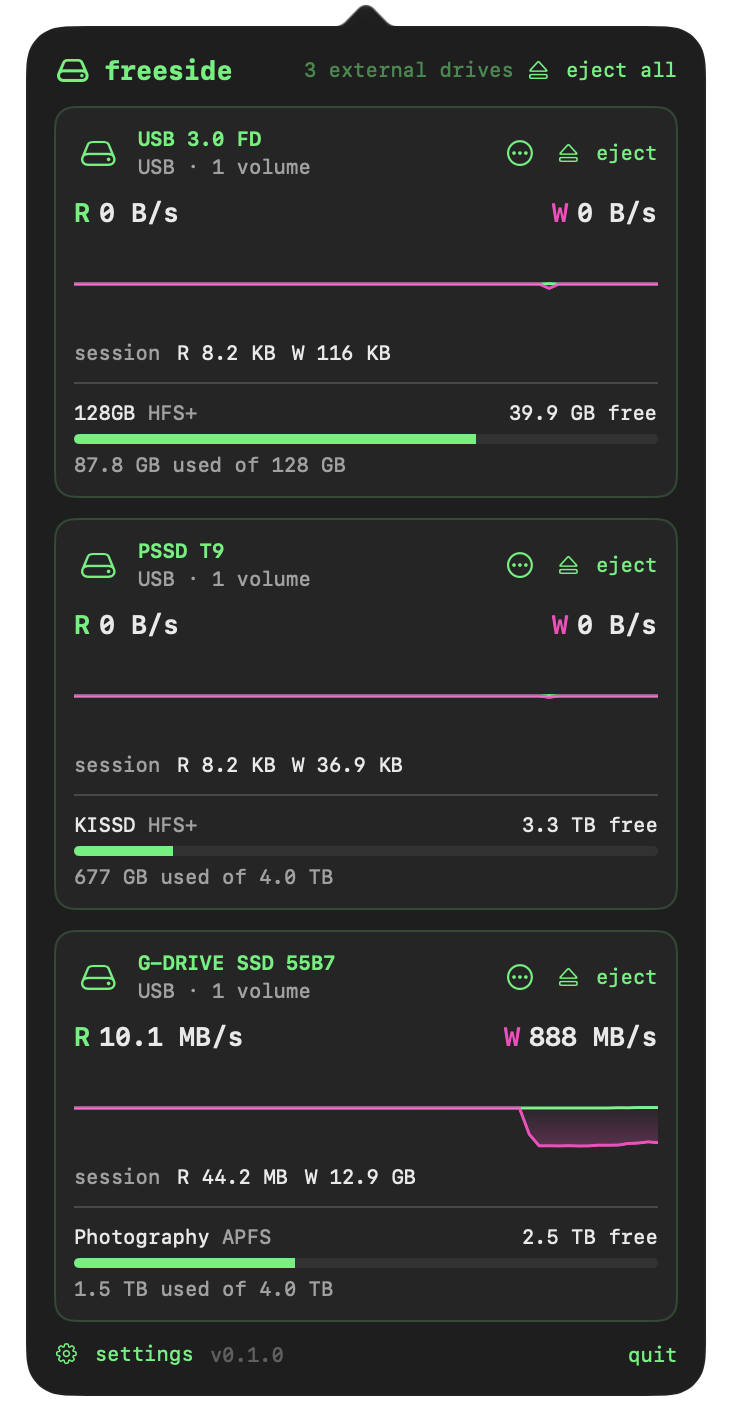
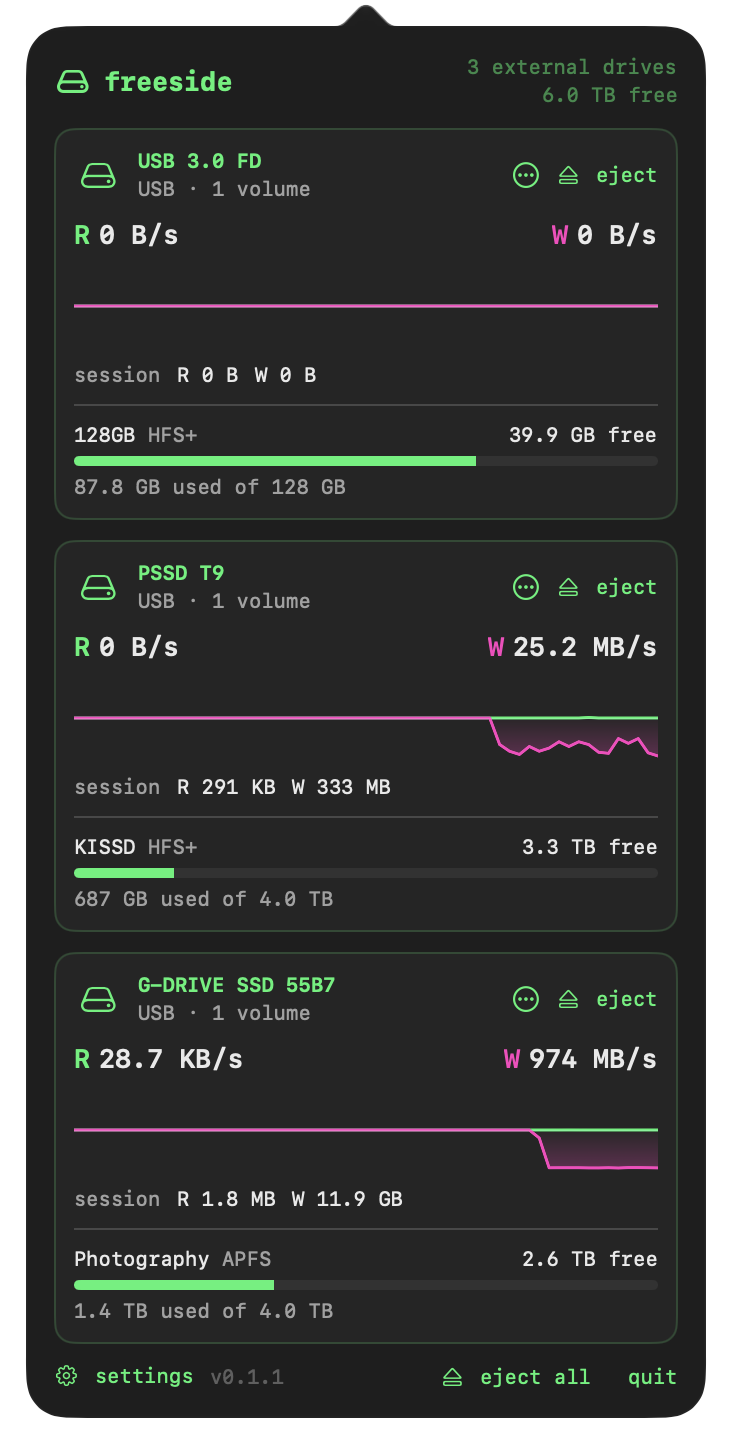
M9 (part): screenshots, README, 0.2.0
New popover and menu bar screenshots for the README and site, taken
during a write: the popover with the new header and footer, and the
menu bar for both appearances. FREESIDE_SNAPSHOT now also writes the
image for the other menu bar appearance, which gave the first look at
the light menu bar. The README shows them as flatline's does and says
how to install.

Version 0.2.0 (build 3), with notes for the CPU fixes, the icon and
the new header.

diff --git a/App/MenuBar/StatusItemController.swift b/App/MenuBar/StatusItemController.swift
@@ -141,7 +141,14 @@ final class StatusItemController: NSObject, NSPopoverDelegate, NSMenuDelegate {
         contentLayer.contentsScale = scale
         contentLayer.frame = CGRect(x: Self.horizontalPadding, y: ((button.bounds.height - size.height) / 2).rounded(), width: size.width, height: size.height)
         contentLayer.contents = image
-        if let path = Self.snapshotPath { Self.writeSnapshot(image, to: path) }
+        if let path = Self.snapshotPath {
+            Self.writeSnapshot(image, to: path)
+            // And as it would look on the other menu bar, for the README.
+            let other = NSAppearance(named: appearance.bestMatch(from: [.aqua, .darkAqua]) == .darkAqua ? .aqua : .darkAqua)!
+            if let image = MenuBarRenderer.image(for: layout, appearance: other, scale: scale) {
+                Self.writeSnapshot(image, to: (path as NSString).deletingPathExtension + (other.name == .aqua ? "-light.png" : "-dark.png"))
+            }
+        }
     }
 
     /// Every second while rates are on screen or a transfer may be starting;
@@ -369,7 +376,9 @@ final class StatusItemController: NSObject, NSPopoverDelegate, NSMenuDelegate {
     // MARK: - Development
 
     /// `FREESIDE_SNAPSHOT=<file.png>` writes every rendered menu bar image to
-    /// that file, for checking rendering without a screen capture.
+    /// that file, and the same image for the other menu bar appearance next
+    /// to it (`<file>-light.png` or `<file>-dark.png`), for checking
+    /// rendering without a screen capture.
     private static let snapshotPath = ProcessInfo.processInfo.environment["FREESIDE_SNAPSHOT"]
 
     private static func writeSnapshot(_ image: CGImage, to path: String) {

diff --git a/site/index.html b/site/index.html
@@ -174,7 +174,7 @@
         <p class="lede">freeside shows how much space is left on each drive and how fast each one is reading and writing. When a drive won't eject, it tells you which apps and files are keeping it busy and lets you deal with them. It runs on Apple Silicon Macs with macOS 27, and does nothing when nothing is happening.</p>
 
         <div class="menubar-strip">
-          <img src="/screenshots/menubar-dark.png" width="114" height="22" alt="freeside in the menu bar: a volume named 128GB with 40 gigabytes free, a write trace, reading 29 kilobytes and writing 968 megabytes per second">
+          <img src="/screenshots/menubar-dark.png" width="114" height="22" alt="freeside in the menu bar: a volume named 128GB with 40 gigabytes free, a write trace, reading 53 kilobytes and writing 988 megabytes per second">
         </div>
 
         <div class="cta">
@@ -187,7 +187,7 @@
       </div>
 
       <figure class="shot">
-        <img src="/screenshots/popover.png" width="366" height="710" alt="freeside's popover: three USB drives, each with read and write rates, a 60-second trace, session totals, an eject button and its volume's free space. One drive is writing at 888 megabytes per second.">
+        <img src="/screenshots/popover.png" width="366" height="722" alt="freeside's popover: three USB drives, each with read and write rates, a 60-second trace, session totals, an eject button and its volume's free space. One drive is writing at 974 megabytes per second.">
       </figure>
     </div>
 

diff --git a/PRD.md b/PRD.md
@@ -200,7 +200,7 @@ Same setup as flatline:
 - **Sparkle 2.10.0** (pinned) via Swift Package Manager, using `SPUStandardUpdaterController`. Checks daily without a first-run prompt (`SUEnableAutomaticChecks`); gentle reminders are on because freeside has no Dock icon. "Check for Updates…" is in the right-click menu, and the settings panel has check/download toggles and "check now".
 - Appcast at `https://freeside.banast.as/appcast.xml`, served with `Cache-Control: no-cache`. Updates are the same notarized, stapled DMGs people download, under `/releases/` (cached as immutable).
 - Updates are signed with **EdDSA (ed25519)**. The public key is in `Info.plist` (`SUPublicEDKey`); the private key was generated in M8 into the release Mac's login keychain under account `freeside`, separate from flatline's, and is **never committed**. Losing it means installed copies can't verify future updates, so keep an exported backup (`generate_keys --account freeside -x <file>`) in a password manager.
-- `scripts/release.sh` copies each DMG and its notes into `releases/` (local, git-ignored: the archive of everything shipped) and runs `generate_appcast`, which signs the entries and rewrites `site/appcast.xml` (committed). Notes are the `CHANGELOG.md` section for the version, as HTML. The milestone history sits under "Development (M0–M8)" so it stays out of the notes.
+- `scripts/release.sh` copies each DMG and its notes into `releases/` (local, git-ignored: the archive of everything shipped) and runs `generate_appcast`, which signs the entries and rewrites `site/appcast.xml` (committed). Notes are the `CHANGELOG.md` section for the version, as HTML. The milestone history sits under "Development (M0–M9)" so it stays out of the notes.
 - A small static site in `site/`, flatline's design with freeside's content: landing page, popover screenshot, menu bar strip, download button, requirements, release notes. `scripts/deploy-site.sh` fills in the version, size and notes, writes `_redirects` (`/download` → the newest DMG), and deploys the static-assets Worker in `wrangler.jsonc` with `freeside.banast.as` as its custom domain. Still to do: a social preview card and an Apple touch icon, which wait for the app icon.
 
 **End-to-end test (M8, 2026-10-28):** 0.1.0 (build 1) and 0.1.1 (build 2) were released and deployed; the site, feed (`no-cache`), `/download` redirect and DMG (checksum matching the local file) all checked live. A copy of 0.1.0 from the published DMG, with automatic downloads turned on and the last check backdated, checked 3 s after launch, downloaded and staged 0.1.1, and installed it within 3 s of quitting; the result was 0.1.1, accepted by Gatekeeper as Notarized Developer ID. `generate_appcast` also published an 11 KB delta, but Sparkle downloaded the full DMG; why isn't known yet. The domain's first lookups returned NXDOMAIN before the deploy created its record, and the local resolver kept that for Cloudflare's 30-minute negative TTL, so don't query a new domain before its first deploy.
@@ -268,7 +268,7 @@ freeside/
 
 ### 7.4 Menu bar rendering
 
-Same approach as flatline (its PRD §7.4): draw into one image per tick, put it in a `CALayer` inside the status button rather than `button.image`, use the menu bar's label color, and skip the redraw when nothing visible changed. The canvas and per-glyph text drawing are copied from flatline. The drive glyph is the SF Symbol rasterized once per appearance and scale. With no timer in `icon` style, appearance and backing-scale changes trigger their own redraws. `FREESIDE_SNAPSHOT=<file.png>` writes each rendered image, for checking without a screen capture. `FREESIDE_POPOVER=1` opens the popover at launch (`=internal` also expands the internal disk); a popover opened by a development hook stays open until closed in code, because an app launched from a shell can't activate itself and a transient popover would close at the first change of key window.
+Same approach as flatline (its PRD §7.4): draw into one image per tick, put it in a `CALayer` inside the status button rather than `button.image`, use the menu bar's label color, and skip the redraw when nothing visible changed. The canvas and per-glyph text drawing are copied from flatline. The drive glyph is the SF Symbol rasterized once per appearance and scale. With no timer in `icon` style, appearance and backing-scale changes trigger their own redraws. `FREESIDE_SNAPSHOT=<file.png>` writes each rendered image, and the same image for the other menu bar appearance beside it (`-light` or `-dark`), for checking without a screen capture and for the README. The light rendering was first checked this way in M9. `FREESIDE_POPOVER=1` opens the popover at launch (`=internal` also expands the internal disk); a popover opened by a development hook stays open until closed in code, because an app launched from a shell can't activate itself and a transient popover would close at the first change of key window.
 
 ### 7.5 Security and distribution
 
@@ -355,6 +355,8 @@ Every row above is checked on each of these before 1.0:
 | M7 | Distribution | `scripts/release.sh` produces a signed, notarized, stapled DMG |
 | M8 | Updates + site | Sparkle wired up; site deployed with appcast; an update tested end to end |
 | M9 | 1.0 | §8 budgets verified; §9 criteria verified on the §9.1 hardware; README screenshots; tagged release |
+
+**M9 progress (2026-10-28):** the tick profiler is in, and the first §8 measurements found and fixed a CPU problem (§8). App icon, README screenshots (menu bar in both appearances, popover) and the site's screenshots are done. Still to do: the idle, no-external-drive and popover-opening budgets on a quiet Mac with the drives idle; the §9 criteria on the §9.1 hardware other than the USB SSDs and disk images used so far (SD slot, Thunderbolt RAID, AppleRAID pair, card reader, FAT32 stick, spinning HFS+ drive, an SMB share whose server goes away); VoiceOver; then 1.0.0, released, deployed and tagged.
 
 ## 12. Decisions
 

diff --git a/README.md b/README.md
@@ -4,11 +4,20 @@ A small menu bar app for Apple Silicon Macs that watches your drives: **free spa
 
 > "The disk wasn't ejected because one or more programs may be using it." freeside tells you which ones.
 
+<p align="center">
+  <picture>
+    <source media="(prefers-color-scheme: dark)" srcset="site/screenshots/menubar-dark.png">
+    <img src="site/screenshots/menubar-light.png" width="114" alt="freeside in the menu bar: a volume named 128GB with 40 gigabytes free, a write trace, reading 53 kilobytes and writing 988 megabytes per second">
+  </picture>
+  <br><br>
+  <img src="site/screenshots/popover.png" width="366" alt="freeside's popover: three USB drives, each with read and write rates, a 60-second trace, session totals, an eject button and its volume's free space; one is writing at 974 megabytes per second">
+</p>
+
 freeside is a sibling to [flatline](https://github.com/banastas/flatline) and follows the same rules: one narrow job, Apple Silicon and macOS 27 only, no root helper, and close to zero cost when nothing is happening.
 
-**Status:** in development, not yet released. Milestones M0–M7 of the [PRD](PRD.md) are built: volumes and free space, per-drive I/O, eject with blockers, the menu bar, the popover, settings, notifications, and a notarized DMG. Sparkle updates and the site come next.
+**Status:** preview. 0.1.1 is out at [freeside.banast.as](https://freeside.banast.as) and updates itself; 1.0 waits on the checks in the [PRD](PRD.md)'s M9 (performance budgets on a quiet Mac and accuracy on more kinds of drives).
 
-## Features (planned for 1.0)
+## Features
 
 - **Free space** for external drives, disk images and the internal disk, matching what Finder shows (including purgeable space on APFS)
 - **Read/write speed** per physical drive, with a 60-second trace, for card offloads and project copies
@@ -29,7 +38,7 @@ freeside can only see the current user's processes. When a system process such a
 
 ## Install
 
-Not released yet. When it is, downloads will be at **[freeside.banast.as](https://freeside.banast.as)**.
+Download the DMG from **[freeside.banast.as](https://freeside.banast.as)**, open it, and drag freeside to Applications. It's signed and notarized, and updates itself through [Sparkle](https://sparkle-project.org).
 
 ## License
 

diff --git a/CHANGELOG.md b/CHANGELOG.md
@@ -1,12 +1,11 @@
 # Changelog
 
-## Unreleased
+## 0.2.0 (2026-10-28)
 
-- The popover's header shows the external drive count over their total free space, as flatline's shows the chip and uptime; Eject All moves to the footer
-- App icon: a drive with a capacity bar, on flatline's dark green grid (also the site's favicon)
-- Uses far less CPU: free space is no longer re-read in full every time a drive writes, and the menu bar no longer redraws several times per update (1.8 % → 0.13 % on the 1 s tick)
+- Uses far less CPU: about 0.13 % while showing live rates, down from 1.8 %. Free space is no longer re-read in full every time a drive writes, and the menu bar no longer redraws several times per update.
+- An app icon: a drive with a capacity bar
+- The popover's header shows how many external drives are attached and their total free space; Eject All moves to the footer
 - The popover opens a little faster
-- Tick profiler: `FREESIDE_PROFILE=1`, as in flatline
 
 ## 0.1.1 (2026-10-28)
 
@@ -25,7 +24,7 @@ The first preview release.
 - Copy Diagnostics for bug reports, with no file paths in it
 - Signed, notarized and updated automatically
 
-## Development (M0–M8)
+## Development (M0–M9)
 
 - Project scaffold: an empty menu bar app and the FreesideKit package (M0)
 - Volumes: external drives, disk images, network shares and the boot volume, with free space matching Finder; updates within a second of a mount, unmount or rename; network reads time out after 2 s instead of hanging (M1)
@@ -44,3 +43,4 @@ The first preview release.
 - Release script: builds a Developer ID signed, notarized and stapled DMG (M7)
 - Updates: Sparkle checks freeside.banast.as daily; Check for Updates in the right-click menu and settings, with automatic check and download toggles; the popover's footer shows when an update is available (M8)
 - Site: freeside.banast.as with a download button, a screenshot, requirements and release notes; the release script adds each version to the update feed (M8)
+- Tick profiler: `FREESIDE_PROFILE=1`, as in flatline, with the popover's time to first frame and `FREESIDE_POPOVER=cycle` (M9)
